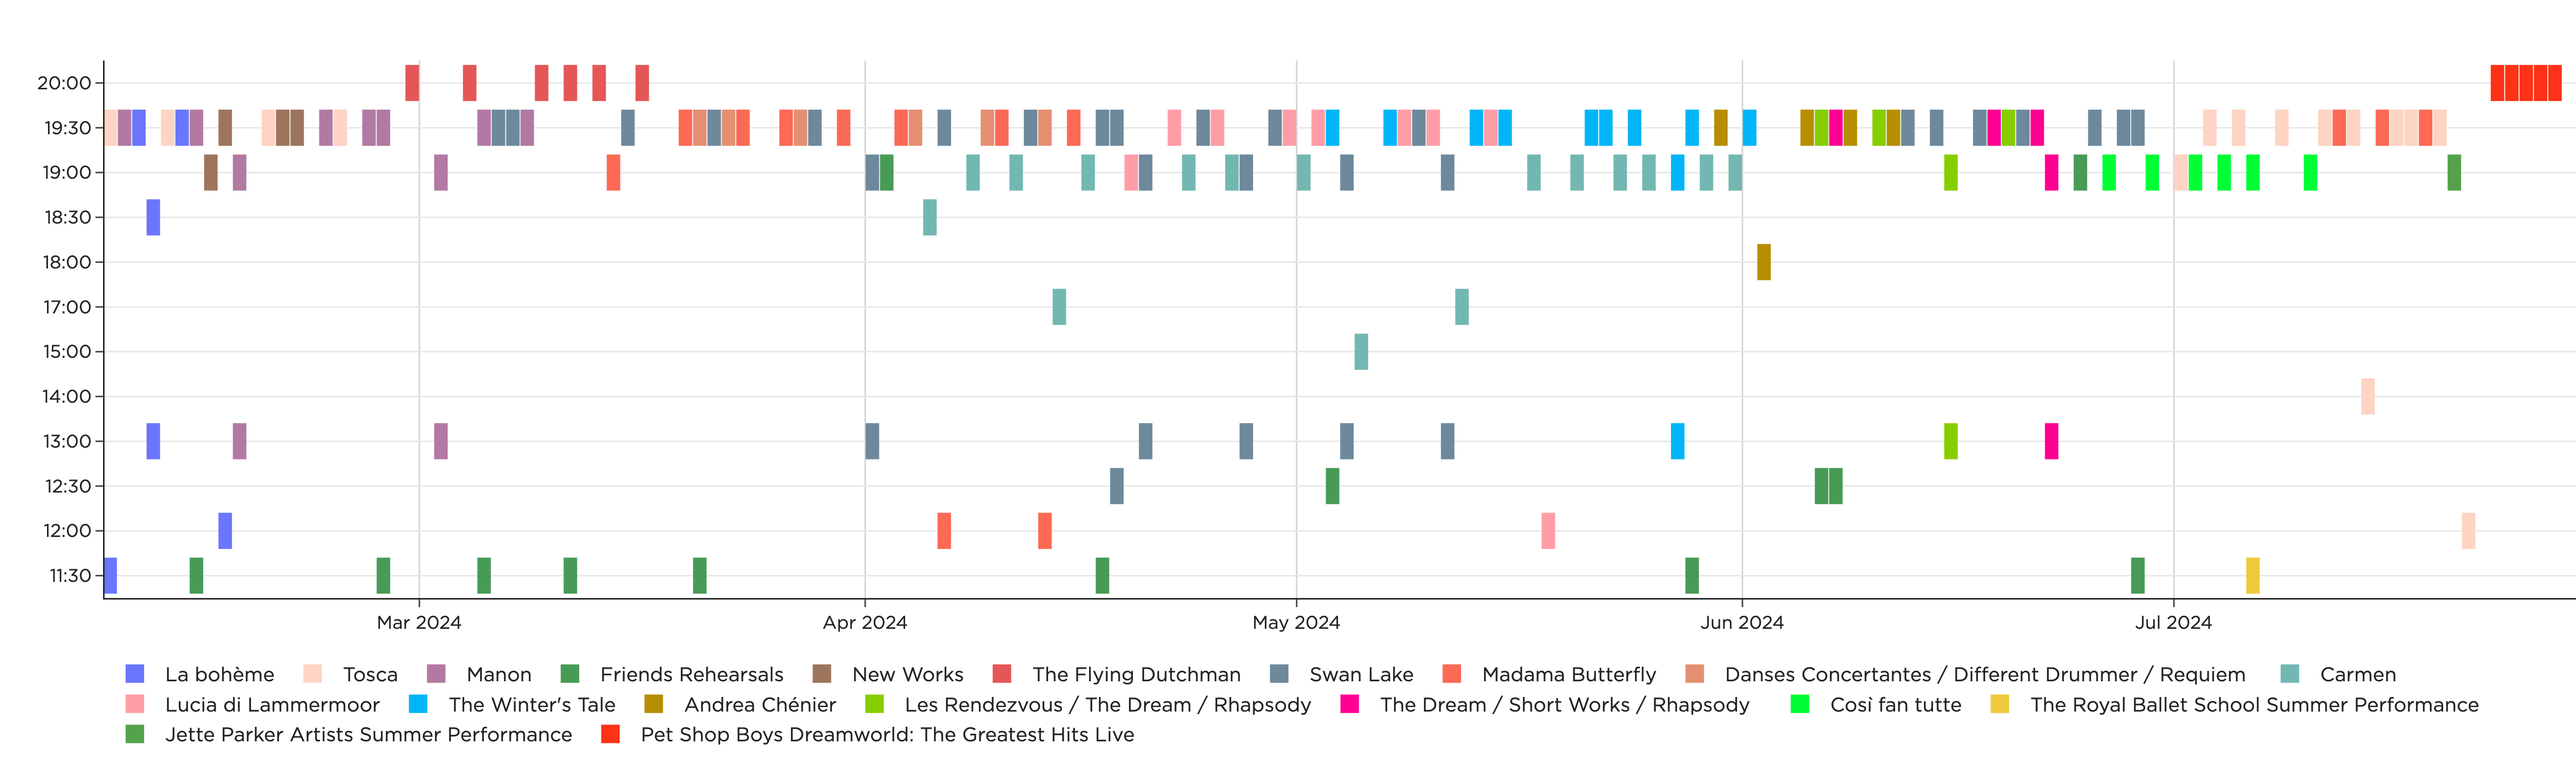
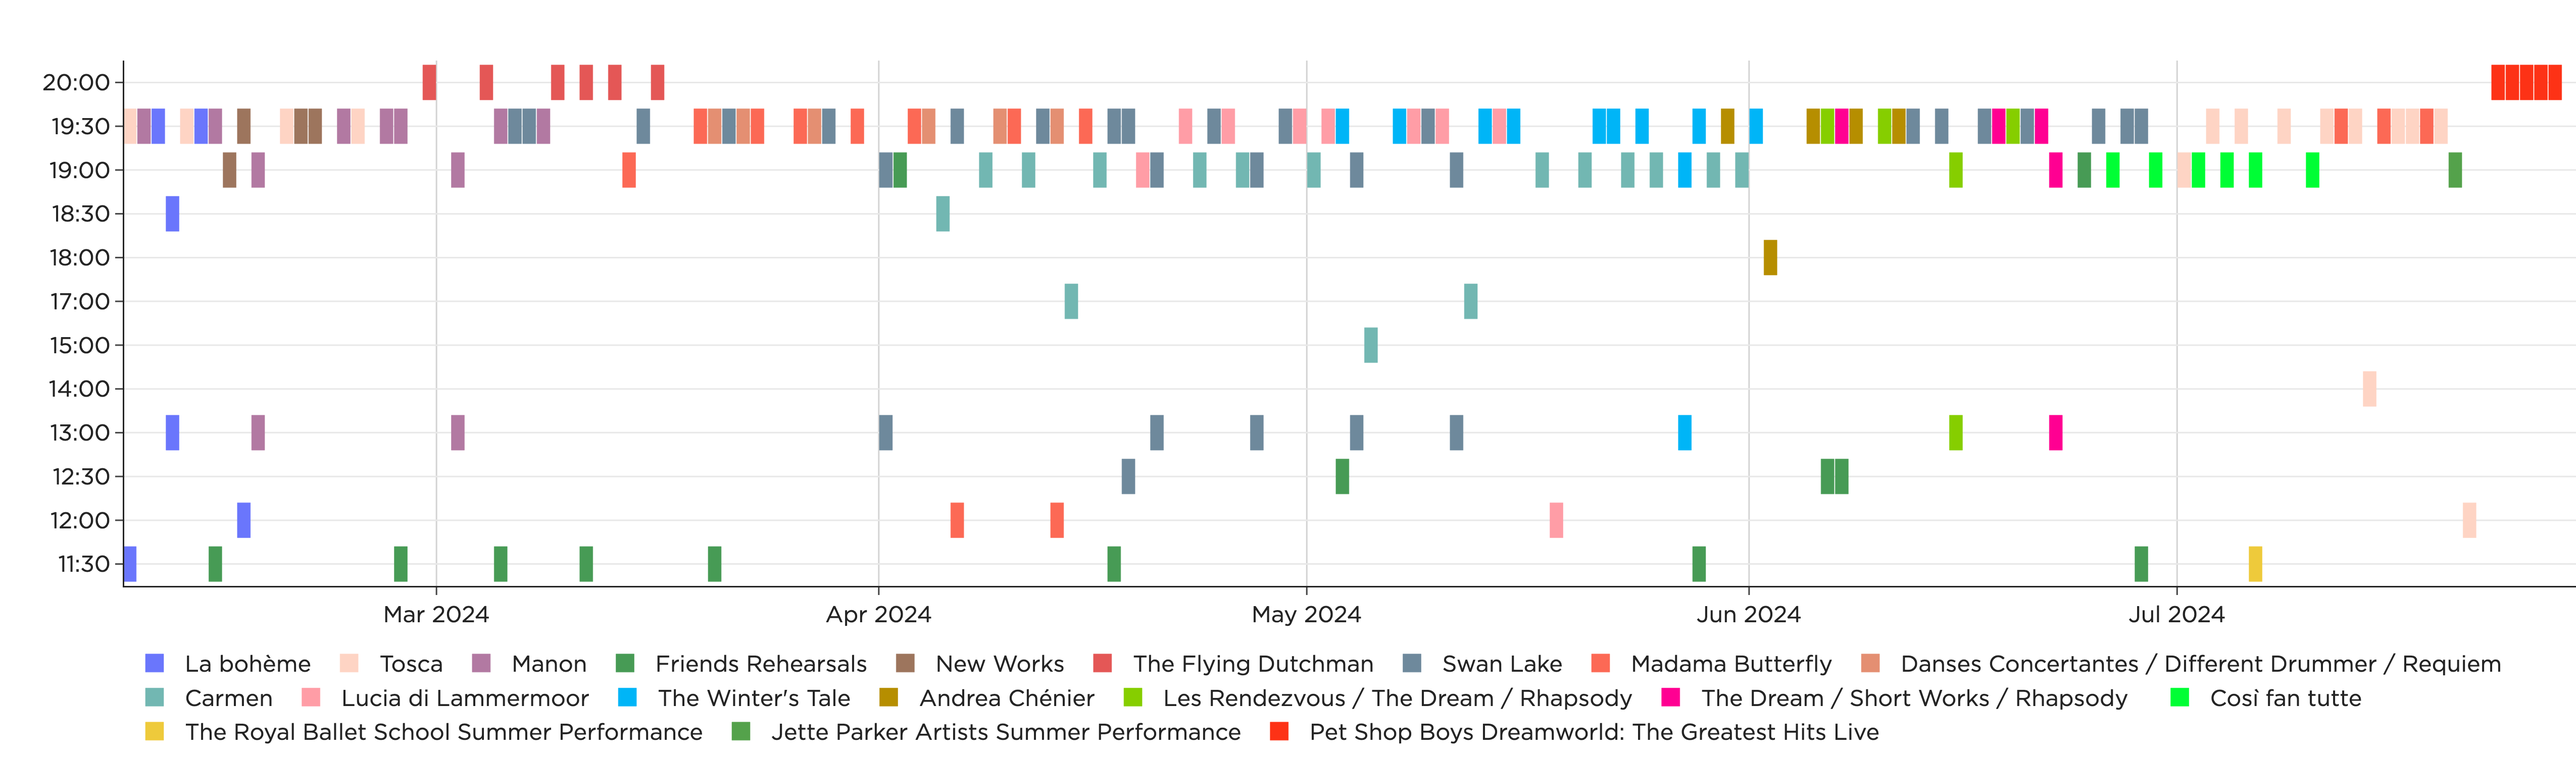
tidy: plot layout

diff --git a/python_roh/src/graphics.py b/python_roh/src/graphics.py
@@ -212,8 +212,7 @@ def plot_events(events_df, colour1="T10", colour2="Light24", filter_recent=True)
         ),
         legend=dict(
             title="",
-            title_font=dict(size=15, family="Gotham"),
-            font=dict(size=13, family="Gotham"),
+            font=dict(size=15, family="Gotham"),
             orientation="h",
         ),
         title=None,
@@ -225,6 +224,7 @@ def plot_events(events_df, colour1="T10", colour2="Light24", filter_recent=True)
         ),
     )
     fig.layout.font.family = "Gotham"
+    fig.layout.font.size = 15
     fig.update_traces(
         hovertemplate="<br>".join(
             [
